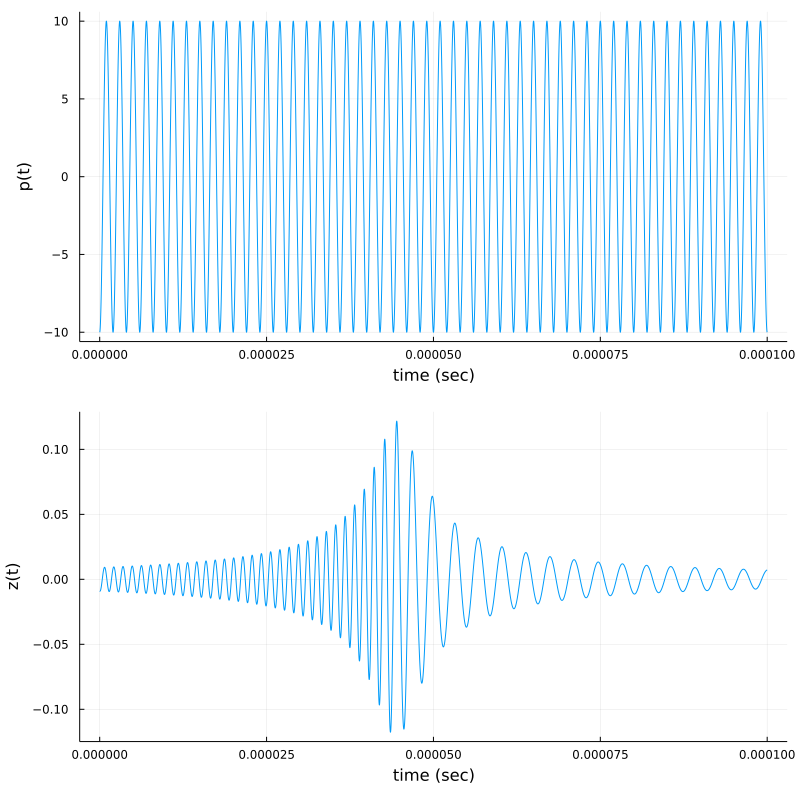
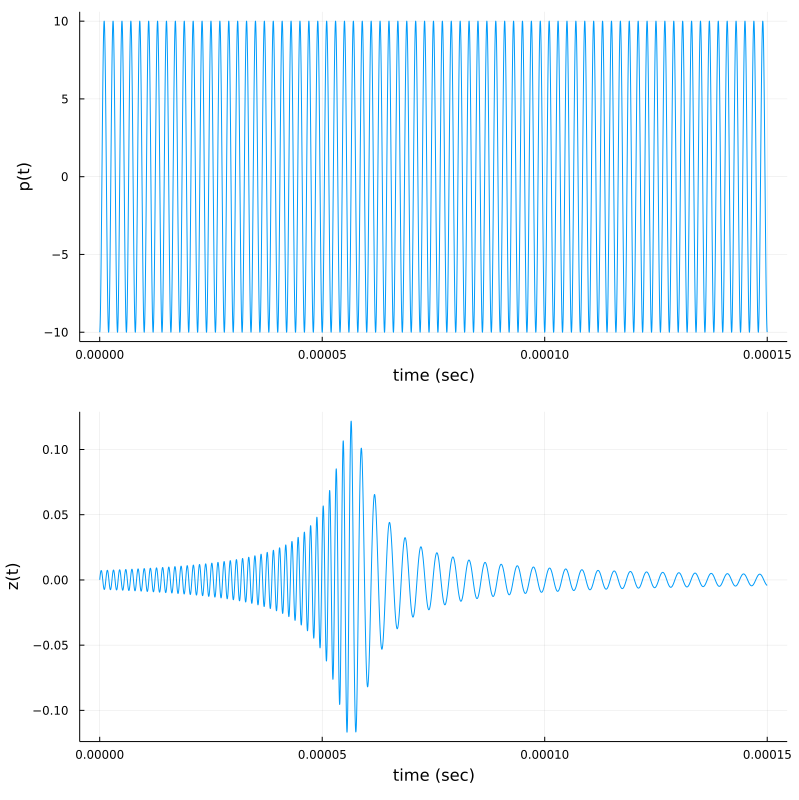
update Doppler plots

diff --git a/docs/src/modelingLTV Doppler/modelLTVDoppler.md b/docs/src/modelingLTV Doppler/modelLTVDoppler.md
@@ -66,15 +66,15 @@ using Plots
 s = 0.45c 
 𝐯 = [1.0, 0.0]  
 𝐩ₛ₀= [-15.0e-06c,0.0]
-𝐩ₛ(t) = 𝐩ₛ₀ .+ s.*𝐯.*t
 𝐩ᵣ = [2.0e-06c,1.5e-06c] 
 f = 5e05
 ω = 2π*f
 tₚ = 1.0e-06
+𝐩ₛ(t) = 𝐩ₛ₀ .+ s.*𝐯.*(t-tₚ)
 p(t) = 10cos(ω*(t-tₚ))
 q = LTVsourceO(𝐩ₛ, p)
 z = LTIreceiverO([q],𝐩ᵣ)
-t=0.0:1.0e-08:100.0e-06
+t=0.0:1.0e-08:150.0e-06
 p1=plot(t,p, xlab="time (sec)", ylab="p(t)", legend=:false)
 p2=plot(t,z(t), xlab="time (sec)", ylab="z(t)", legend=:false)
 plot(p1,p2,layout=(2,1),size=(800,800))
@@ -122,13 +122,13 @@ using Plots
 s = 0.45c 
 𝐯 = [-1.0, 0.0] 
 tₚ = 1.0e-06 
-𝐩ᵣ₀ = [5.0e-06c,0.0]
-𝐩ᵣ(t) = 𝐩ᵣ₀ .+ s.*𝐯.*t
+𝐩ᵣ₀ = [10.0e-06c,0.0]
 f = 5e05
+𝐩ᵣ(t) = 𝐩ᵣ₀ .+ s.*𝐯.*(t-tₚ)
 p(t) = 10cos(2π*f*(t-tₚ))
 q = LTIsourceO(𝐩ₛ, p)   
 z = LTVreceiverO([q],𝐩ᵣ)  
-t=0.0:1.0e-08:100.0e-06
+t=0.0:1.0e-08:150.0e-06
 p1=plot(t,p, xlab="time (sec)", ylab="p(t)", legend=:false)
 p2=plot(t,z(t), xlab="time (sec)", ylab="z(t)", legend=:false)
 plot(p1,p2,layout=(2,1),size=(800,800))
@@ -152,13 +152,13 @@ s₁ = 0.50c
 s₂ = 0.25c  
 𝐯₂ = [1.0, 0.0]  
 tₚ = 1.0e-06
-𝐩ₛ(t) = [-10.0e-06c,-1.5e-06c] .+ s₁.*𝐯₁.*t 
-𝐩ᵣ(t) = [5.0e-06c,0.0] .+ s₂.*𝐯₂.*t 
 f = 5e05
+𝐩ₛ(t) = [-10.0e-06c,-1.5e-06c] .+ s₁.*𝐯₁.*(t-tₚ) 
+𝐩ᵣ(t) = [5.0e-06c,0.0] .+ s₂.*𝐯₂.*(t-tₚ)
 p(t) = cos(2π*f*(t-tₚ))
 q = LTVsourceO(𝐩ₛ, p)
 z = LTVreceiverO([q],𝐩ᵣ)
-t=0.0:1.0e-08:100.0e-06
+t=0.0:1.0e-08:150.0e-06
 p1=plot(t,p, xlab="time (sec)", ylab="p(t)", legend=:false)
 p2=plot(t,z(t), xlab="time (sec)", ylab="z(t)", legend=:false)
 plot(p1,p2,layout=(2,1),size=(800,800))
